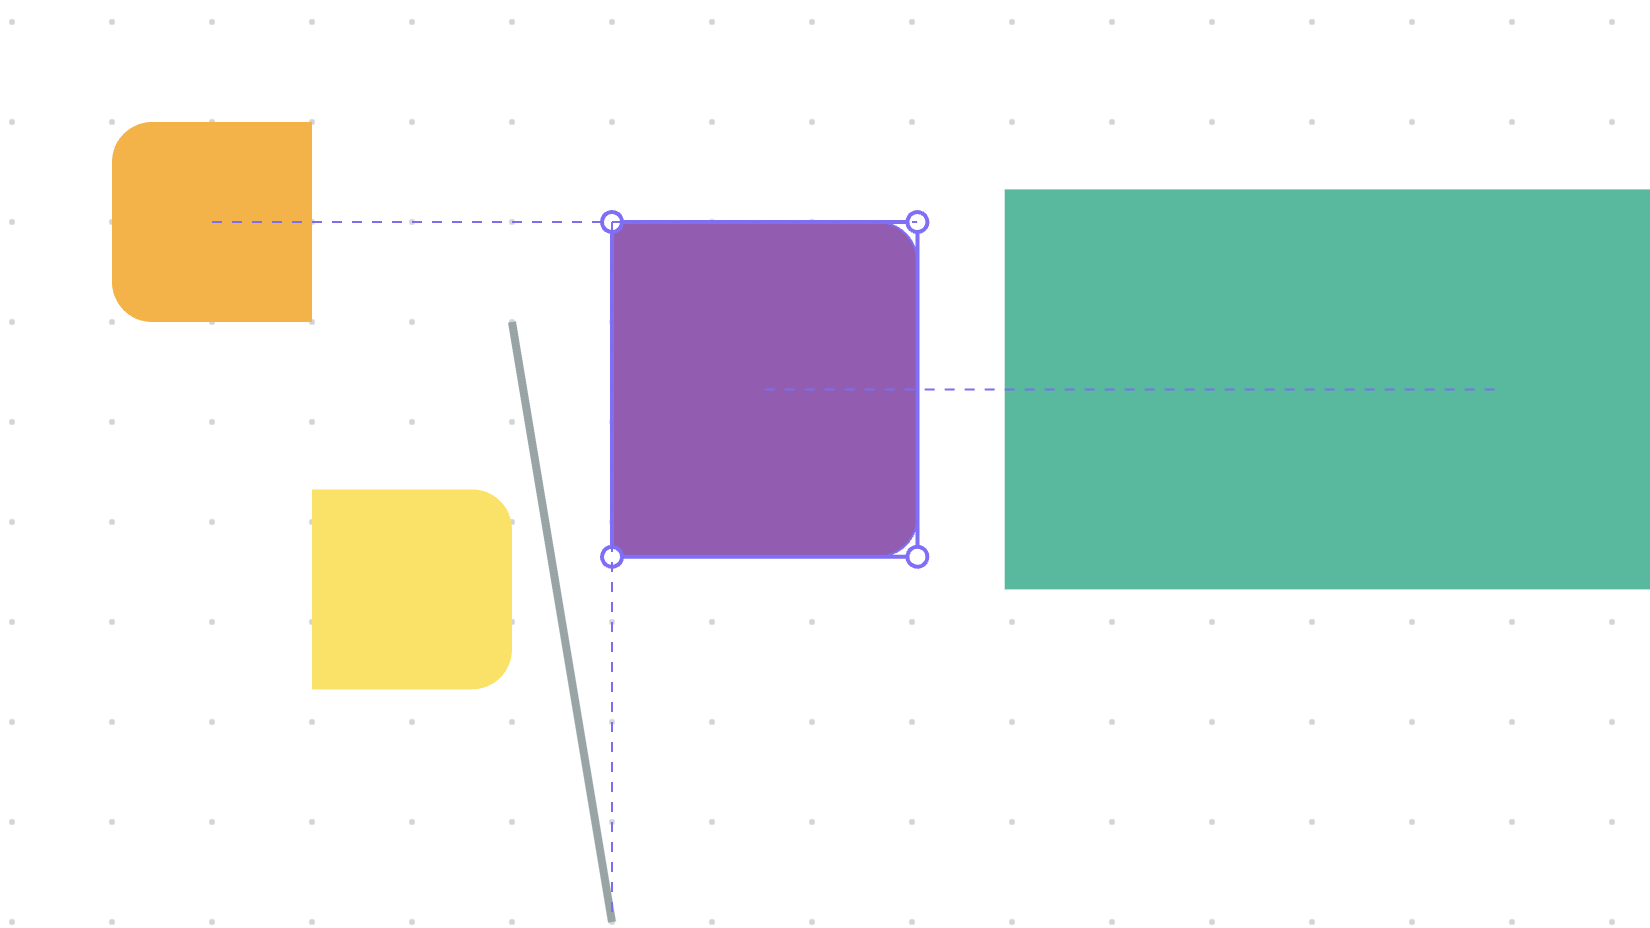
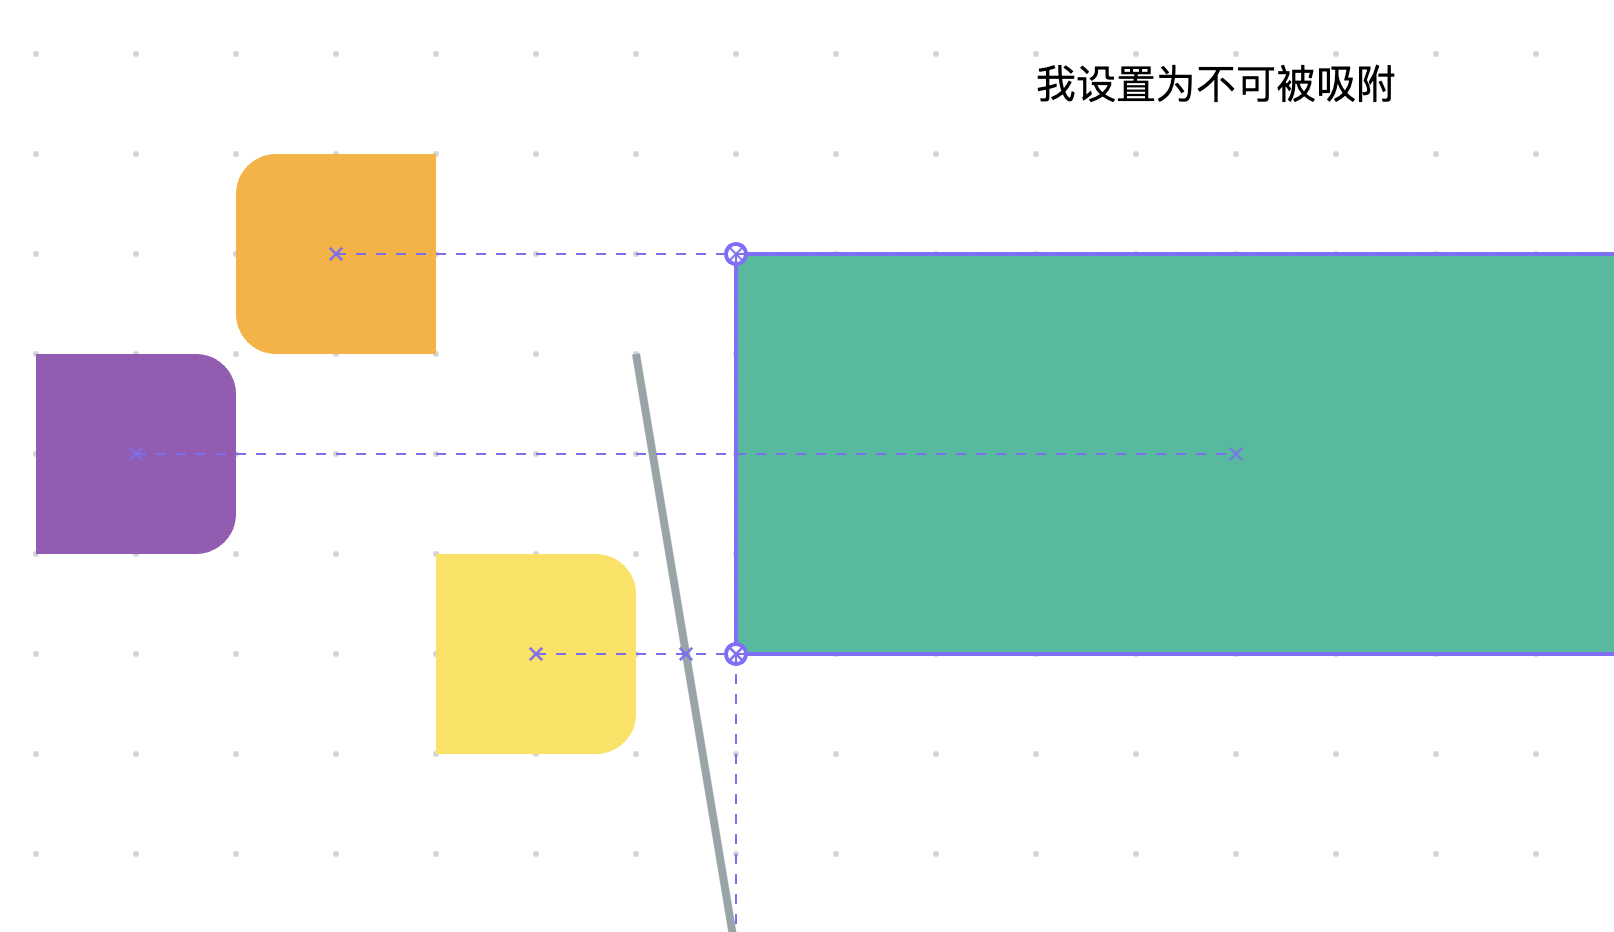
feat: 增加筛选吸附元素功能

diff --git a/package/src/snap.ts b/package/src/snap.ts
@@ -1,4 +1,4 @@
-import { Line, PointerEvent, LayoutEvent, Group } from '@leafer-ui/core'
+import { Line, PointerEvent, LayoutEvent, Group, UI, dataType } from '@leafer-ui/core'
 
 import { IApp, IUI } from '@leafer-ui/interface'
 import { ISimulateElement } from '@leafer-in/interface'
@@ -6,6 +6,15 @@ import { ISimulateElement } from '@leafer-in/interface'
 import { EditorEvent, EditorMoveEvent } from '@leafer-in/editor'
 
 const isArray = Array.isArray
+
+// 是否被当做吸附对象
+UI.addAttr('isSnap', true, dataType)
+
+declare module '@leafer-ui/interface' {
+  interface ILeafAttrData {
+    isSnap?: boolean
+  }
+}
 
 type Point = {
   x: number
@@ -28,6 +37,7 @@ type SnapConfig = {
   dashPattern?: number[]
   isDash?: boolean
   showLinePoints?: boolean
+  filter?: (element: IUI) => boolean
 }
 
 const DEFAULT_SNAP_SIZE = 10
@@ -55,6 +65,8 @@ export class Snap {
   public dashPattern: number[] = [5]
   // 是否显示吸附点
   public showLinePoints = true
+  // 自定义筛选吸附元素规则
+  public filter?: (element: IUI) => boolean
 
   constructor(app: IApp, config?: SnapConfig) {
     if (!app.isApp) {
@@ -78,10 +90,18 @@ export class Snap {
     this.isDash = config?.isDash ?? this.isDash
     this.dashPattern = config?.dashPattern ?? this.dashPattern
     this.showLinePoints = config?.showLinePoints ?? this.showLinePoints
+    this.filter = config?.filter ?? this.filter
 
     this.handleMove = this.handleMove.bind(this)
     this.handleSelect = this.handleSelect.bind(this)
     this.clear = this.clear.bind(this)
+  }
+
+  /**
+   * 主动改变筛选吸附元素函数
+   */
+  public changeFilter(filter: (element: IUI) => boolean) {
+    this.filter = filter
   }
 
   /**
@@ -369,11 +389,23 @@ export class Snap {
     const { value } = event
     // 获取视口内所有的元素
     const elements = this.getElementsInViewport().filter(item => {
-      // 筛出选中的元素
+      // 如果是单选 筛出自身
+      if (item === value) {
+        return false
+      }
+      // 如果是多选 筛出选中的元素
       if (isArray(value)) {
         return !value.includes(item)
       }
-      return item !== value
+      // 筛出不开启吸附的元素
+      if (!item.isSnap) {
+        return false
+      }
+      // 筛出自定义规则的元素
+      if (this.filter) {
+        return this.filter(item)
+      }
+      return true
     })
 
     this.snapPoints = elements.map(item => this.getSnapPoints(item))

diff --git a/playground/src/App.tsx b/playground/src/App.tsx
@@ -1,5 +1,5 @@
 import { useEffect, useRef, useState } from 'react'
-import { App as LeaferApp, Line, Rect } from 'leafer-editor'
+import { App as LeaferApp, Line, Rect, Text } from 'leafer-editor'
 import { Snap } from 'leafer-x-snap'
 import { DotMatrix } from 'leafer-x-dot-matrix'
 import { Button, ColorPicker, InputNumber, Switch } from 'antd'
@@ -48,6 +48,16 @@ const App = () => {
         strokeWidth: 4,
         points: [400, 200, 450, 500],
         editable: true,
+      })
+    )
+    app.tree.add(
+      Text.one({
+        text: '我设置为不可被吸附',
+        fontSize: 20,
+        editable: true,
+        x: 600,
+        y: 50,
+        isSnap: false,
       })
     )
 

diff --git a/README.md b/README.md
@@ -2,6 +2,9 @@
 
 吸附插件，为 Leafer 应用提供元素自动吸附功能。
 
+[![npm version](https://img.shields.io/npm/v/leafer-x-snap)](https://www.npmjs.com/package/leafer-x-snap)
+[![npm downloads](https://img.shields.io/npm/dm/leafer-x-snap)](https://www.npmjs.com/package/leafer-x-snap)
+
 <img src="https://github.com/tuntun0609/leafer-x-snap/blob/master/images/demo.png?raw=true" alt="demo" style="zoom:33%;" />
 
 ## 安装
@@ -21,6 +24,7 @@ type SnapConfig = {
   dashPattern?: number[];
   isDash?: boolean;
   showLinePoints?: boolean;
+  filter?: (element: IUI) => boolean;
 };
 ```
 
@@ -43,6 +47,14 @@ const snap = new Snap(app, {
 snap.enable(true);
 ```
 
+可以在元素上设置 `isSnap` 属性来控制元素是否参与吸附计算，默认为 `true`
+
+```typescript
+new Rect({ isSnap: false });
+// or
+rect.isSnap = false;
+```
+
 ## API 文档
 
 ### 构造函数
@@ -58,15 +70,16 @@ constructor(app: IApp, config?: SnapConfig)
 
 #### 配置项
 
-| 属性             | 类型     | 默认值    | 说明               |
-| ---------------- | -------- | --------- | ------------------ |
-| `snapSize`       | number   | 5         | 吸附距离范围       |
-| `lineColor`      | string   | '#D2D4D7' | 吸附辅助线颜色     |
-| `showLine`       | boolean  | true      | 是否显示辅助线     |
-| `strokeWidth`    | number   | 1         | 线宽               |
-| `dashPattern`    | number[] | [5]       | 虚线样式           |
-| `isDash`         | boolean  | true      | 是否使用虚线       |
-| `showLinePoints` | boolean  | true      | 是否显示辅助线端点 |
+| 属性             | 类型                      | 默认值    | 说明                       |
+| ---------------- | ------------------------- | --------- | -------------------------- |
+| `snapSize`       | number                    | 5         | 吸附距离范围               |
+| `lineColor`      | string                    | '#D2D4D7' | 吸附辅助线颜色             |
+| `showLine`       | boolean                   | true      | 是否显示辅助线             |
+| `strokeWidth`    | number                    | 1         | 线宽                       |
+| `dashPattern`    | number[]                  | [5]       | 虚线样式                   |
+| `isDash`         | boolean                   | true      | 是否使用虚线               |
+| `showLinePoints` | boolean                   | true      | 是否显示辅助线端点         |
+| `filter`         | (element: IUI) => boolean | undefined | 过滤需要参与吸附计算的元素 |
 
 ### 实例方法
 
@@ -88,6 +101,15 @@ snap.enable(false)
 
 ```typescript
 snap.destroy()
+```
+
+#### changeFilter(filter: (element: IUI) => boolean)
+
+更改元素过滤器函数
+
+```typescript
+// 示例：只对矩形元素进行吸附
+snap.changeFilter((element) => element.tag === 'Rect')
 ```
 
 ## 使用示例
